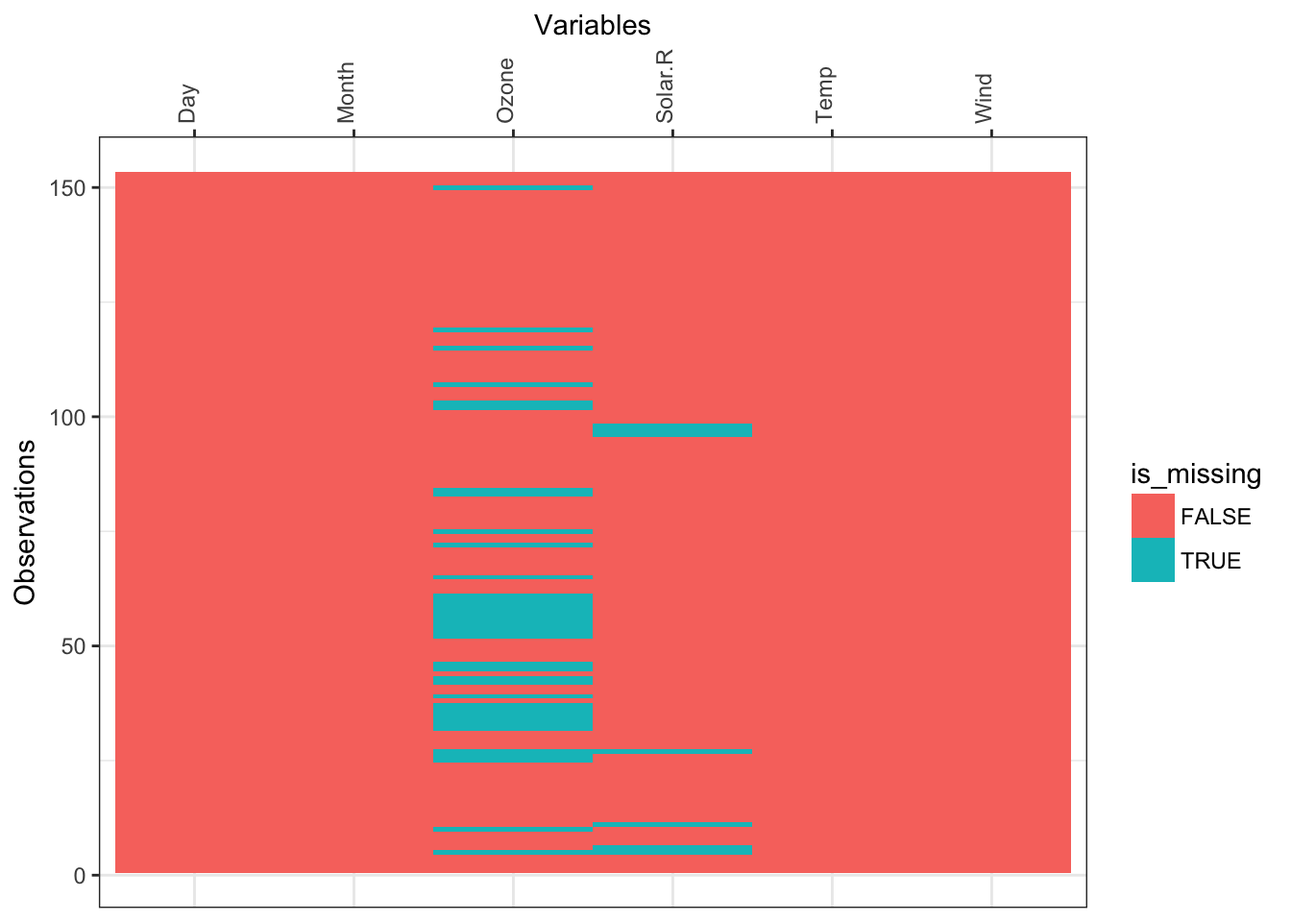
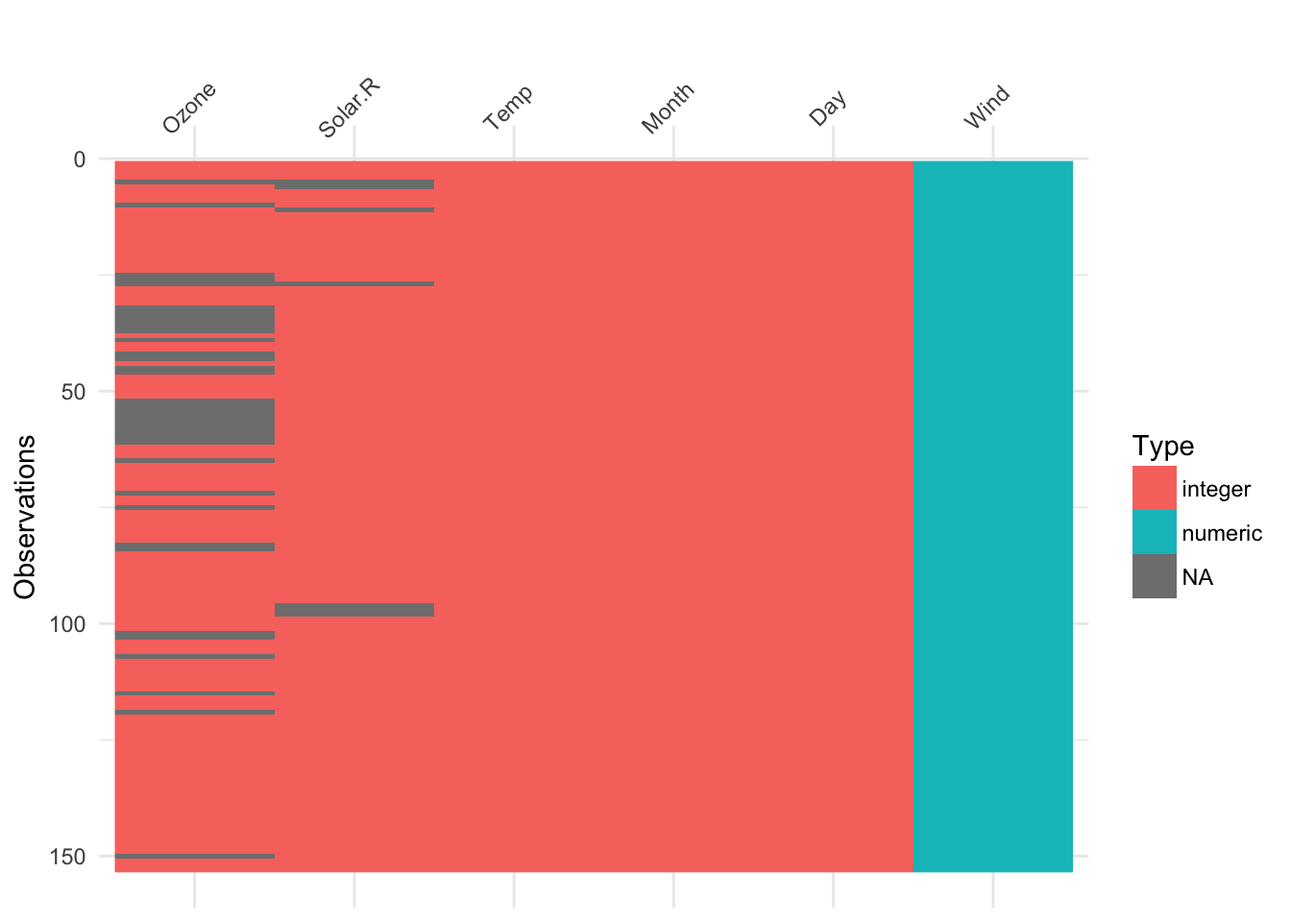
updated the plot missing values post

diff --git a/public/2018/05/22/plot-missing-values/index.html b/public/2018/05/22/plot-missing-values/index.html
@@ -57,7 +57,7 @@
 
   <article class="article">
     
-    <span class="article-duration">6 min read</span>
+    <span class="article-duration">7 min read</span>
     
 
     <h1 class="article-title">Plot Missing Values</h1>
@@ -68,10 +68,10 @@
 
     <div class="article-content">
       <blockquote>
-<p>In the 2nd day of my <strong>#100DaysOfCode</strong> challenge, I want to try <strong>visdat</strong> package to visualize missing values. Then, I will show you how we can do a similar plot using <strong>ggplot2</strong> package. Then, using the second method, I will show you in addition to missing values we can visualize any other value(s).</p>
+<p>In this post, we will explore <strong>visdat</strong> package to visualize missing values. Then, we will recreate a similar plot using <strong>ggplot2</strong> package. Next, using the <strong>ggplot2</strong> method, we will visualize other numeric or character values in a dataset. Finally, using the <strong>ggplot2</strong> method, we will create a custom function that will plot any value in any dataset.</p>
 </blockquote>
-<p>There are many ways to inspect and find about missing values. Let’s use <code>summary()</code> functions from base R to explore missing values in <strong>airquality</strong> dataset.</p>
-<pre class="r"><code>summary(airquality) # summary statistics of variables/columns of airquality dataset</code></pre>
+<p>There are many ways to inspect and find about missing values in a dataset. For example, <code>summary()</code> function from base R produces descriptive statistics and number of <code>NA</code>’s. Let’s use that with <strong>airquality</strong> dataset, that has some missing values.</p>
+<pre class="r"><code>summary(airquality)</code></pre>
 <pre><code>##      Ozone           Solar.R           Wind             Temp      
 ##  Min.   :  1.00   Min.   :  7.0   Min.   : 1.700   Min.   :56.00  
 ##  1st Qu.: 18.00   1st Qu.:115.8   1st Qu.: 7.400   1st Qu.:72.00  
@@ -88,30 +88,30 @@
 ##  3rd Qu.:8.000   3rd Qu.:23.0  
 ##  Max.   :9.000   Max.   :31.0  
 ## </code></pre>
-<p>From the <code>summary()</code> function, we can see columns/variables <strong>Ozone</strong> has 36 missing values (NA’s) and <strong>Solar.R</strong> has 7 missing values. We can use <code>View()</code> function to inspect the whole dataset in a spreadsheet view.</p>
+<p>From the output of <code>summary()</code> function, we can see columns/variables <strong>Ozone</strong> has 36 missing values (<code>NA</code>’s) and column <strong>Solar.R</strong> has 7 missing values.</p>
+<p>You can also inspect the whole dataset as in a spreadsheet view using <code>View()</code>.</p>
+<pre class="r"><code>View(airquality)</code></pre>
 <div id="visualize-missing-values-with-visdat-package" class="section level2">
 <h2>Visualize missing values with visdat package</h2>
-<p>Let’s explore the <strong>visdat</strong> package that promises to provide an easy way to inspect the whole dataset. If you haven’t used it before, you have to install it and then load it.</p>
-<pre class="r"><code># install.packages(&quot;visdat&quot;)
-library(visdat) # load visdat package</code></pre>
-<p>There are two functions in <strong>visdat</strong> package that we need to know: <code>vis_miss()</code> function that plots missing values of a data and <code>vis_dat()</code> function that plots class of data. After loading the <strong>visdat</strong> package, both functions are available and the way to use them is with a data.frame object.</p>
-<p>Let’s use <strong>airquality</strong> dataset with <code>vis_miss()</code> function to visualize missing values. This plots the columns in <strong>airquality</strong> data.frame vertically and observations horizontally, resembling the way data is stored. Black color represents missing values and grey color represents non-missing values. There is even percentages of missing vlaues with one decimal points for each column and an overall percentage, which I find extremely useful. Compared to <code>summary()</code>, this plot gives a lot more information.</p>
+<p>Let’s explore the <strong>visdat</strong> package that promises to provide an easy way to inspect <code>NA</code>’s for the whole dataset. If you haven’t used it before, you have to install it and then load it.</p>
+<pre class="r"><code># install.packages(&quot;visdat&quot;)    #installs visdat package
+library(visdat)                 #loads visdat package</code></pre>
+<p>There are two functions in <strong>visdat</strong> package that we need to know: <code>vis_miss()</code> function that plots missing values in a dataset and <code>vis_dat()</code> function that plots class of variables in a dataset in addition to missing values. After loading the <strong>visdat</strong> package, both functions are available and they take a data.frame object as argument and returns a plot of that data.frame.</p>
+<p>Let’s use <strong>airquality</strong> dataset with <code>vis_miss()</code> function to visualize missing values. This plots the columns in <strong>airquality</strong> data.frame vertically and observations horizontally, resembling the way data is stored. Black color represents missing values and grey color represents non-missing values. There is even percentages of missing vlaues with one decimal points for each column and an overall percentage in the legend, which I find extremely useful. Compared to <code>summary()</code>, this plot gives a lot more information.</p>
 <pre class="r"><code>vis_miss(airquality)</code></pre>
-<p><img src="/post/2018-05-22-plot-missing-values_files/figure-html/unnamed-chunk-3-1.png" width="672" /></p>
+<p><img src="/post/2018-05-22-plot-missing-values_files/figure-html/unnamed-chunk-4-1.png" width="672" /></p>
 <p>Let’s use <code>vis_dat()</code> function. This plot visualizes the class of each column of <strong>airquality</strong> dataset in addition to indicating missing values. However, percentages of missing values are not shown.</p>
 <pre class="r"><code>vis_dat(airquality)</code></pre>
-<p><img src="/post/2018-05-22-plot-missing-values_files/figure-html/unnamed-chunk-4-1.png" width="672" /></p>
+<p><img src="/post/2018-05-22-plot-missing-values_files/figure-html/unnamed-chunk-5-1.png" width="672" /></p>
 </div>
 <div id="visualize-missing-values-with-ggplot2-package" class="section level2">
 <h2>Visualize missing values with ggplot2 package</h2>
-<p>Next, let’s create a similar plot using <strong>ggplot2</strong> package. I suspect <code>vis_miss()</code> and <code>vis_dat()</code> use <strong>ggplot2</strong> under the hood.</p>
-<p>I am going to load <strong>tidyverse</strong> package, which includes packages such as <strong>ggplot2</strong>, <strong>dplyr</strong>, and <strong>tidyr</strong>. So instead of loading these three packages that we need, I am going to load only <strong>tidyverse</strong>.</p>
+<p>I suspect <code>vis_miss()</code> and <code>vis_dat()</code> use <strong>ggplot2</strong> under the hood because they resemble plots created with <strong>ggplot2</strong> package. Let’s attempt to use <strong>ggplot2</strong> package to recreate a similar plot <code>vis_miss()</code> created.</p>
+<p>I am going to load <strong>tidyverse</strong> package, which includes packages that we need: <strong>ggplot2</strong>, <strong>dplyr</strong>, and <strong>tidyr</strong>. So instead of loading these three packages separately, I am going to load only <strong>tidyverse</strong>.</p>
 <pre class="r"><code>library(tidyverse)</code></pre>
-<p>Again I am going to use <strong>airquality</strong> dataset. The following chunk of code produces a plot that indicates missing values. I have left comments inside the code that explains each part of the process.</p>
-<pre class="r"><code>airquality %&gt;%
-  
-  # takes airquality data.frame as argument and returns a matrix of TRUE and FALSE, with TRUE indicating missing values
-  is.na() %&gt;% 
+<p>Again I am going to use <strong>airquality</strong> dataset. The following chunk of code produces a plot that indicates missing values. I have left comments inside the code that explains each part of the code.</p>
+<pre class="r"><code># takes airquality data.frame and tests presence of missing values, returning a matrix of TRUE and FALSE, with TRUE indicating missing values
+is.na(airquality) %&gt;%
   
   # takes the matrix as argument and converts it into a data.frame object
   data.frame() %&gt;%
@@ -136,12 +136,12 @@ library(visdat) # load visdat package</code></pre>
   
   # change the angle of x axis labels and horizontal adjustment
   theme(axis.text.x = element_text(angle = 90, hjust = 0))</code></pre>
-<p><img src="/post/2018-05-22-plot-missing-values_files/figure-html/unnamed-chunk-6-1.png" width="672" /></p>
-<p>The above code chunk is an example of a nested code that is simplied using pipe operators <strong>%&gt;%</strong> from <strong>magrittr</strong> package which is made avaible by loading <strong>tidyverse</strong> package.</p>
+<p><img src="/post/2018-05-22-plot-missing-values_files/figure-html/unnamed-chunk-7-1.png" width="672" /></p>
+<p>The above code chunk is an example of a nested code that is simplied using pipe operators <strong>%&gt;%</strong> from <strong>magrittr</strong> package, which is made avaible by loading <strong>tidyverse</strong> package.</p>
 </div>
 <div id="visualize-any-other-values-with-ggplot2-package" class="section level2">
 <h2>Visualize any other values with ggplot2 package</h2>
-<p>What the <strong>ggplot2</strong> method allows is the possibility of manipulating the code to produce plots that visualizes presence of another value. The second line of the code, <code>is.na()</code> function, transforms the <strong>airquality</strong> dataset into a matrix of TRUE and FALSE (or 0 and 1) which later is supplied into the <code>ggplot()</code> function to create the plot.</p>
+<p>What the above code chunk allows is the possibility of manipulating the code to produce plots that visualizes presence of another value. If you read the first line of the code, <code>is.na()</code> function tests the data.frame for missing values, and transforms the <strong>airquality</strong> dataset into a matrix of TRUE and FALSE (or 0 and 1), which later is supplied into the <code>ggplot()</code> function to create the plot.</p>
 <p>Let’s explore <code>is.na()</code> function separately. As you can observe, the result of <code>is.na(airquality)</code> is a matrix containing TRUE and FALSE.</p>
 <pre class="r"><code>is.na(airquality) %&gt;% 
   head() # print only first rows of the matrix produced by is.na(airquality)</code></pre>
@@ -152,9 +152,8 @@ library(visdat) # load visdat package</code></pre>
 ## [4,] FALSE   FALSE FALSE FALSE FALSE FALSE
 ## [5,]  TRUE    TRUE FALSE FALSE FALSE FALSE
 ## [6,] FALSE    TRUE FALSE FALSE FALSE FALSE</code></pre>
-<p>So, instead of <code>is.na()</code> if we use another logical test (e.g. airquality &gt; 50) to create a matrix of TRUE and FALSE too. Let’s assume we are interested to know if airquality has any values greater than 50. So we bring changes in the second line <code>{. &gt; 50}</code> and create <code>is_greater_than_50</code> instead of <code>is_missing</code> in the fifth and sixth lines. The resulting plot indicates missing values in grey color, &gt;50 vaules with blue color, and the rest in red color. <code>ggplot()</code> has a lot of functions that allows you to customize this plot in almost any way in case you are interested.</p>
-<pre class="r"><code>airquality %&gt;%
-  {. &gt; 50} %&gt;%
+<p>So, instead of <code>is.na()</code> if we use another test (e.g. airquality &gt; 50) to create a matrix of TRUE and FALSE too. Let’s assume we are interested to know if <strong>airquality</strong> dataset has any values greater than 50. So we bring changes in the second line <code>{. &gt; 50}</code> and create <code>is_greater_than_50</code> instead of <code>is_missing</code> in the fifth and sixth lines. The resulting plot indicates missing values in grey color, <strong>&gt;50</strong> vaules with blue color, and the rest in red color. <code>ggplot()</code> has a lot of functions that allows you to customize this plot in almost any way in case you are interested.</p>
+<pre class="r"><code>{airquality &gt; 50} %&gt;%
   data.frame() %&gt;%
   mutate(obs = 1:nrow(.)) %&gt;%
   gather(var, is_greater_than_50, -obs) %&gt;%
@@ -163,14 +162,14 @@ library(visdat) # load visdat package</code></pre>
   labs(x=&quot;Variables&quot;, y=&quot;Observations&quot;) +
   scale_x_discrete(position = &quot;top&quot;) +
   theme(axis.text.x = element_text(angle = 90, hjust = 0))</code></pre>
-<p><img src="/post/2018-05-22-plot-missing-values_files/figure-html/unnamed-chunk-8-1.png" width="672" /></p>
+<p><img src="/post/2018-05-22-plot-missing-values_files/figure-html/unnamed-chunk-9-1.png" width="672" /></p>
 </div>
-<div id="create-a-generic-function-to-plot-any-condition" class="section level2">
-<h2>Create a generic function to plot any condition</h2>
-<p>Perhaps you would like to visualize every dataset you work with. In that case, you might be better off creating a function instead of typing all that code or even copy/pasting.</p>
-<p>Let’s take the existing code and turn it into a function. The following chunk of code creates a function called <code>missing_tiles()</code> that takes a data.frame and returns a tile plot of missing values.</p>
-<pre class="r"><code>missing_tiles &lt;- function(x){
-  is.na(x) %&gt;% 
+<div id="create-a-custom-function-to-plot-any-condition" class="section level2">
+<h2>Create a custom function to plot any condition</h2>
+<p>Perhaps you would like to visualize every dataset you work with and different conditions. For exmaple, you might want to plot values above 100. In that case, you might be better off creating a function instead of typing all that code or even copy/pasting.</p>
+<p>I am going to create a function called <code>conditional_plot()</code> that will take a condition (e.g. <strong>airquality &gt; 100</strong>) as an argument, and plots the values that satisfy the condition in one color, values that do not satisfy the condition in another color, and NA’s in grey color.</p>
+<pre class="r"><code>conditional_plot &lt;- function(x){
+  {x} %&gt;%
     data.frame() %&gt;% 
     mutate(obs = 1:nrow(.)) %&gt;% 
     gather(var, is_miss, -obs) %&gt;%
@@ -180,9 +179,13 @@ library(visdat) # load visdat package</code></pre>
     labs(x = &quot;Variables&quot;, y = &quot;Observations&quot;) +
     scale_x_discrete(position = &quot;top&quot;)
 }
-missing_tiles(airquality)</code></pre>
-<p><img src="/post/2018-05-22-plot-missing-values_files/figure-html/unnamed-chunk-9-1.png" width="672" /></p>
-<p>Next, we create a more general function that takes any condition.</p>
+conditional_plot(airquality&gt;50)</code></pre>
+<p><img src="/post/2018-05-22-plot-missing-values_files/figure-html/unnamed-chunk-10-1.png" width="672" /></p>
+<p><strong>There are two things to note:</strong></p>
+<ol style="list-style-type: decimal">
+<li>This <code>conditional_plot()</code> reorders the variables in alphabetical order. I will try to find a fix and update this post.</li>
+<li>The <code>conditional_plot()</code> will visualize the character/string columns as missing too. I will try to find a fix for this too and update this post.</li>
+</ol>
 </div>
 
     </div>

diff --git a/content/post/2018-05-22-plot-missing-values.html b/content/post/2018-05-22-plot-missing-values.html
@@ -12,10 +12,10 @@ tags:
 
 
 <blockquote>
-<p>In the 2nd day of my <strong>#100DaysOfCode</strong> challenge, I want to try <strong>visdat</strong> package to visualize missing values. Then, I will show you how we can do a similar plot using <strong>ggplot2</strong> package. Then, using the second method, I will show you in addition to missing values we can visualize any other value(s).</p>
+<p>In this post, we will explore <strong>visdat</strong> package to visualize missing values. Then, we will recreate a similar plot using <strong>ggplot2</strong> package. Next, using the <strong>ggplot2</strong> method, we will visualize other numeric or character values in a dataset. Finally, using the <strong>ggplot2</strong> method, we will create a custom function that will plot any value in any dataset.</p>
 </blockquote>
-<p>There are many ways to inspect and find about missing values. Let’s use <code>summary()</code> functions from base R to explore missing values in <strong>airquality</strong> dataset.</p>
-<pre class="r"><code>summary(airquality) # summary statistics of variables/columns of airquality dataset</code></pre>
+<p>There are many ways to inspect and find about missing values in a dataset. For example, <code>summary()</code> function from base R produces descriptive statistics and number of <code>NA</code>’s. Let’s use that with <strong>airquality</strong> dataset, that has some missing values.</p>
+<pre class="r"><code>summary(airquality)</code></pre>
 <pre><code>##      Ozone           Solar.R           Wind             Temp      
 ##  Min.   :  1.00   Min.   :  7.0   Min.   : 1.700   Min.   :56.00  
 ##  1st Qu.: 18.00   1st Qu.:115.8   1st Qu.: 7.400   1st Qu.:72.00  
@@ -32,30 +32,30 @@ tags:
 ##  3rd Qu.:8.000   3rd Qu.:23.0  
 ##  Max.   :9.000   Max.   :31.0  
 ## </code></pre>
-<p>From the <code>summary()</code> function, we can see columns/variables <strong>Ozone</strong> has 36 missing values (NA’s) and <strong>Solar.R</strong> has 7 missing values. We can use <code>View()</code> function to inspect the whole dataset in a spreadsheet view.</p>
+<p>From the output of <code>summary()</code> function, we can see columns/variables <strong>Ozone</strong> has 36 missing values (<code>NA</code>’s) and column <strong>Solar.R</strong> has 7 missing values.</p>
+<p>You can also inspect the whole dataset as in a spreadsheet view using <code>View()</code>.</p>
+<pre class="r"><code>View(airquality)</code></pre>
 <div id="visualize-missing-values-with-visdat-package" class="section level2">
 <h2>Visualize missing values with visdat package</h2>
-<p>Let’s explore the <strong>visdat</strong> package that promises to provide an easy way to inspect the whole dataset. If you haven’t used it before, you have to install it and then load it.</p>
-<pre class="r"><code># install.packages(&quot;visdat&quot;)
-library(visdat) # load visdat package</code></pre>
-<p>There are two functions in <strong>visdat</strong> package that we need to know: <code>vis_miss()</code> function that plots missing values of a data and <code>vis_dat()</code> function that plots class of data. After loading the <strong>visdat</strong> package, both functions are available and the way to use them is with a data.frame object.</p>
-<p>Let’s use <strong>airquality</strong> dataset with <code>vis_miss()</code> function to visualize missing values. This plots the columns in <strong>airquality</strong> data.frame vertically and observations horizontally, resembling the way data is stored. Black color represents missing values and grey color represents non-missing values. There is even percentages of missing vlaues with one decimal points for each column and an overall percentage, which I find extremely useful. Compared to <code>summary()</code>, this plot gives a lot more information.</p>
+<p>Let’s explore the <strong>visdat</strong> package that promises to provide an easy way to inspect <code>NA</code>’s for the whole dataset. If you haven’t used it before, you have to install it and then load it.</p>
+<pre class="r"><code># install.packages(&quot;visdat&quot;)    #installs visdat package
+library(visdat)                 #loads visdat package</code></pre>
+<p>There are two functions in <strong>visdat</strong> package that we need to know: <code>vis_miss()</code> function that plots missing values in a dataset and <code>vis_dat()</code> function that plots class of variables in a dataset in addition to missing values. After loading the <strong>visdat</strong> package, both functions are available and they take a data.frame object as argument and returns a plot of that data.frame.</p>
+<p>Let’s use <strong>airquality</strong> dataset with <code>vis_miss()</code> function to visualize missing values. This plots the columns in <strong>airquality</strong> data.frame vertically and observations horizontally, resembling the way data is stored. Black color represents missing values and grey color represents non-missing values. There is even percentages of missing vlaues with one decimal points for each column and an overall percentage in the legend, which I find extremely useful. Compared to <code>summary()</code>, this plot gives a lot more information.</p>
 <pre class="r"><code>vis_miss(airquality)</code></pre>
-<p><img src="/post/2018-05-22-plot-missing-values_files/figure-html/unnamed-chunk-3-1.png" width="672" /></p>
+<p><img src="/post/2018-05-22-plot-missing-values_files/figure-html/unnamed-chunk-4-1.png" width="672" /></p>
 <p>Let’s use <code>vis_dat()</code> function. This plot visualizes the class of each column of <strong>airquality</strong> dataset in addition to indicating missing values. However, percentages of missing values are not shown.</p>
 <pre class="r"><code>vis_dat(airquality)</code></pre>
-<p><img src="/post/2018-05-22-plot-missing-values_files/figure-html/unnamed-chunk-4-1.png" width="672" /></p>
+<p><img src="/post/2018-05-22-plot-missing-values_files/figure-html/unnamed-chunk-5-1.png" width="672" /></p>
 </div>
 <div id="visualize-missing-values-with-ggplot2-package" class="section level2">
 <h2>Visualize missing values with ggplot2 package</h2>
-<p>Next, let’s create a similar plot using <strong>ggplot2</strong> package. I suspect <code>vis_miss()</code> and <code>vis_dat()</code> use <strong>ggplot2</strong> under the hood.</p>
-<p>I am going to load <strong>tidyverse</strong> package, which includes packages such as <strong>ggplot2</strong>, <strong>dplyr</strong>, and <strong>tidyr</strong>. So instead of loading these three packages that we need, I am going to load only <strong>tidyverse</strong>.</p>
+<p>I suspect <code>vis_miss()</code> and <code>vis_dat()</code> use <strong>ggplot2</strong> under the hood because they resemble plots created with <strong>ggplot2</strong> package. Let’s attempt to use <strong>ggplot2</strong> package to recreate a similar plot <code>vis_miss()</code> created.</p>
+<p>I am going to load <strong>tidyverse</strong> package, which includes packages that we need: <strong>ggplot2</strong>, <strong>dplyr</strong>, and <strong>tidyr</strong>. So instead of loading these three packages separately, I am going to load only <strong>tidyverse</strong>.</p>
 <pre class="r"><code>library(tidyverse)</code></pre>
-<p>Again I am going to use <strong>airquality</strong> dataset. The following chunk of code produces a plot that indicates missing values. I have left comments inside the code that explains each part of the process.</p>
-<pre class="r"><code>airquality %&gt;%
-  
-  # takes airquality data.frame as argument and returns a matrix of TRUE and FALSE, with TRUE indicating missing values
-  is.na() %&gt;% 
+<p>Again I am going to use <strong>airquality</strong> dataset. The following chunk of code produces a plot that indicates missing values. I have left comments inside the code that explains each part of the code.</p>
+<pre class="r"><code># takes airquality data.frame and tests presence of missing values, returning a matrix of TRUE and FALSE, with TRUE indicating missing values
+is.na(airquality) %&gt;%
   
   # takes the matrix as argument and converts it into a data.frame object
   data.frame() %&gt;%
@@ -80,12 +80,12 @@ library(visdat) # load visdat package</code></pre>
   
   # change the angle of x axis labels and horizontal adjustment
   theme(axis.text.x = element_text(angle = 90, hjust = 0))</code></pre>
-<p><img src="/post/2018-05-22-plot-missing-values_files/figure-html/unnamed-chunk-6-1.png" width="672" /></p>
-<p>The above code chunk is an example of a nested code that is simplied using pipe operators <strong>%&gt;%</strong> from <strong>magrittr</strong> package which is made avaible by loading <strong>tidyverse</strong> package.</p>
+<p><img src="/post/2018-05-22-plot-missing-values_files/figure-html/unnamed-chunk-7-1.png" width="672" /></p>
+<p>The above code chunk is an example of a nested code that is simplied using pipe operators <strong>%&gt;%</strong> from <strong>magrittr</strong> package, which is made avaible by loading <strong>tidyverse</strong> package.</p>
 </div>
 <div id="visualize-any-other-values-with-ggplot2-package" class="section level2">
 <h2>Visualize any other values with ggplot2 package</h2>
-<p>What the <strong>ggplot2</strong> method allows is the possibility of manipulating the code to produce plots that visualizes presence of another value. The second line of the code, <code>is.na()</code> function, transforms the <strong>airquality</strong> dataset into a matrix of TRUE and FALSE (or 0 and 1) which later is supplied into the <code>ggplot()</code> function to create the plot.</p>
+<p>What the above code chunk allows is the possibility of manipulating the code to produce plots that visualizes presence of another value. If you read the first line of the code, <code>is.na()</code> function tests the data.frame for missing values, and transforms the <strong>airquality</strong> dataset into a matrix of TRUE and FALSE (or 0 and 1), which later is supplied into the <code>ggplot()</code> function to create the plot.</p>
 <p>Let’s explore <code>is.na()</code> function separately. As you can observe, the result of <code>is.na(airquality)</code> is a matrix containing TRUE and FALSE.</p>
 <pre class="r"><code>is.na(airquality) %&gt;% 
   head() # print only first rows of the matrix produced by is.na(airquality)</code></pre>
@@ -96,9 +96,8 @@ library(visdat) # load visdat package</code></pre>
 ## [4,] FALSE   FALSE FALSE FALSE FALSE FALSE
 ## [5,]  TRUE    TRUE FALSE FALSE FALSE FALSE
 ## [6,] FALSE    TRUE FALSE FALSE FALSE FALSE</code></pre>
-<p>So, instead of <code>is.na()</code> if we use another logical test (e.g. airquality &gt; 50) to create a matrix of TRUE and FALSE too. Let’s assume we are interested to know if airquality has any values greater than 50. So we bring changes in the second line <code>{. &gt; 50}</code> and create <code>is_greater_than_50</code> instead of <code>is_missing</code> in the fifth and sixth lines. The resulting plot indicates missing values in grey color, &gt;50 vaules with blue color, and the rest in red color. <code>ggplot()</code> has a lot of functions that allows you to customize this plot in almost any way in case you are interested.</p>
-<pre class="r"><code>airquality %&gt;%
-  {. &gt; 50} %&gt;%
+<p>So, instead of <code>is.na()</code> if we use another test (e.g. airquality &gt; 50) to create a matrix of TRUE and FALSE too. Let’s assume we are interested to know if <strong>airquality</strong> dataset has any values greater than 50. So we bring changes in the second line <code>{. &gt; 50}</code> and create <code>is_greater_than_50</code> instead of <code>is_missing</code> in the fifth and sixth lines. The resulting plot indicates missing values in grey color, <strong>&gt;50</strong> vaules with blue color, and the rest in red color. <code>ggplot()</code> has a lot of functions that allows you to customize this plot in almost any way in case you are interested.</p>
+<pre class="r"><code>{airquality &gt; 50} %&gt;%
   data.frame() %&gt;%
   mutate(obs = 1:nrow(.)) %&gt;%
   gather(var, is_greater_than_50, -obs) %&gt;%
@@ -107,14 +106,14 @@ library(visdat) # load visdat package</code></pre>
   labs(x=&quot;Variables&quot;, y=&quot;Observations&quot;) +
   scale_x_discrete(position = &quot;top&quot;) +
   theme(axis.text.x = element_text(angle = 90, hjust = 0))</code></pre>
-<p><img src="/post/2018-05-22-plot-missing-values_files/figure-html/unnamed-chunk-8-1.png" width="672" /></p>
+<p><img src="/post/2018-05-22-plot-missing-values_files/figure-html/unnamed-chunk-9-1.png" width="672" /></p>
 </div>
-<div id="create-a-generic-function-to-plot-any-condition" class="section level2">
-<h2>Create a generic function to plot any condition</h2>
-<p>Perhaps you would like to visualize every dataset you work with. In that case, you might be better off creating a function instead of typing all that code or even copy/pasting.</p>
-<p>Let’s take the existing code and turn it into a function. The following chunk of code creates a function called <code>missing_tiles()</code> that takes a data.frame and returns a tile plot of missing values.</p>
-<pre class="r"><code>missing_tiles &lt;- function(x){
-  is.na(x) %&gt;% 
+<div id="create-a-custom-function-to-plot-any-condition" class="section level2">
+<h2>Create a custom function to plot any condition</h2>
+<p>Perhaps you would like to visualize every dataset you work with and different conditions. For exmaple, you might want to plot values above 100. In that case, you might be better off creating a function instead of typing all that code or even copy/pasting.</p>
+<p>I am going to create a function called <code>conditional_plot()</code> that will take a condition (e.g. <strong>airquality &gt; 100</strong>) as an argument, and plots the values that satisfy the condition in one color, values that do not satisfy the condition in another color, and NA’s in grey color.</p>
+<pre class="r"><code>conditional_plot &lt;- function(x){
+  {x} %&gt;%
     data.frame() %&gt;% 
     mutate(obs = 1:nrow(.)) %&gt;% 
     gather(var, is_miss, -obs) %&gt;%
@@ -124,7 +123,11 @@ library(visdat) # load visdat package</code></pre>
     labs(x = &quot;Variables&quot;, y = &quot;Observations&quot;) +
     scale_x_discrete(position = &quot;top&quot;)
 }
-missing_tiles(airquality)</code></pre>
-<p><img src="/post/2018-05-22-plot-missing-values_files/figure-html/unnamed-chunk-9-1.png" width="672" /></p>
-<p>Next, we create a more general function that takes any condition.</p>
+conditional_plot(airquality&gt;50)</code></pre>
+<p><img src="/post/2018-05-22-plot-missing-values_files/figure-html/unnamed-chunk-10-1.png" width="672" /></p>
+<p><strong>There are two things to note:</strong></p>
+<ol style="list-style-type: decimal">
+<li>This <code>conditional_plot()</code> reorders the variables in alphabetical order. I will try to find a fix and update this post.</li>
+<li>The <code>conditional_plot()</code> will visualize the character/string columns as missing too. I will try to find a fix for this too and update this post.</li>
+</ol>
 </div>
